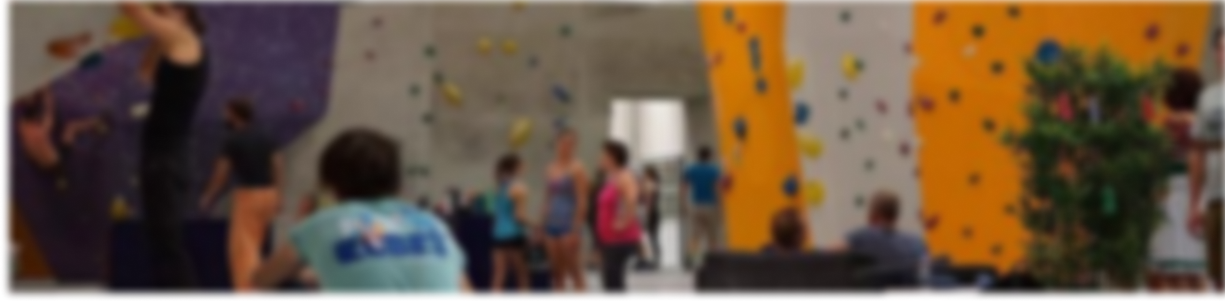
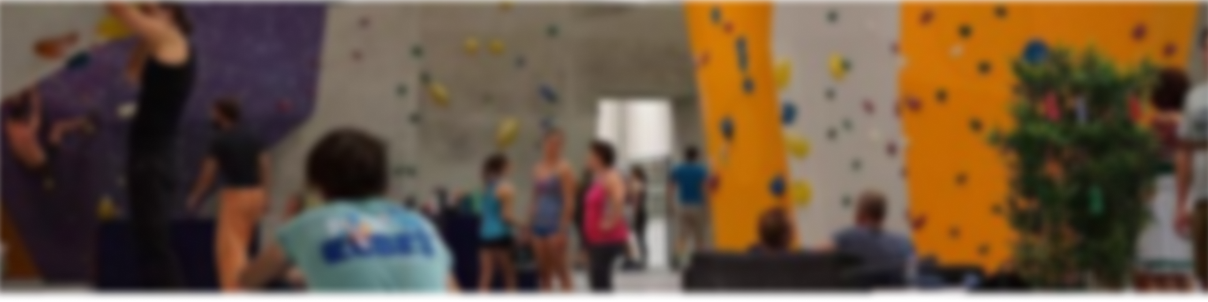
style achtergrond aangepast

diff --git a/css/style.css b/css/style.css
@@ -195,16 +195,16 @@ h4 {
 
 header {
 
-    width: 100%;
     height: 200px;
-   
+   width: 100%;
     
 
 
     background-image: url(../images/cube_background.png);
-    object-fit:cover;
-    background-position: right;
+    background-position: center;
     background-repeat: no-repeat;
+    background-size: cover;
+
 
     display: flex;
     flex-direction: column;

diff --git a/login.php b/login.php
@@ -42,6 +42,8 @@ if (isset($_POST['submit'])) {
 
                 // Credentials not valid
             }else{
+
+
                 //error incorrect log in
                 $errors['loginFailed'] = 'onjuist';
             }
